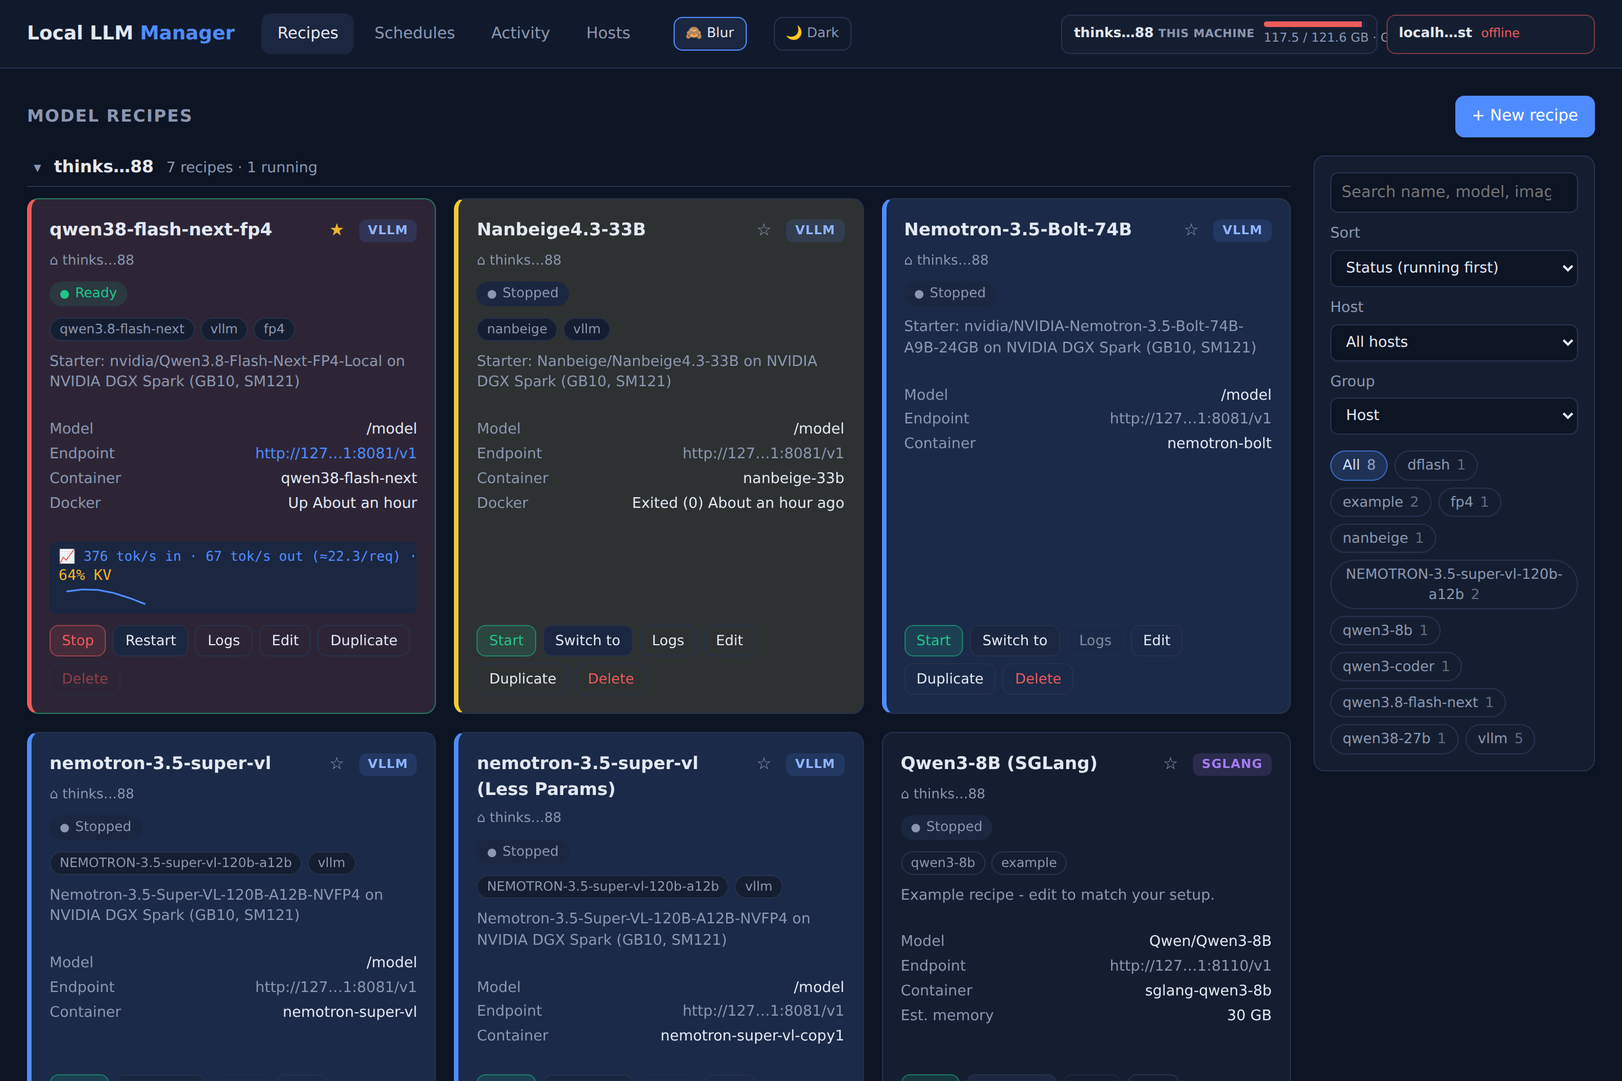
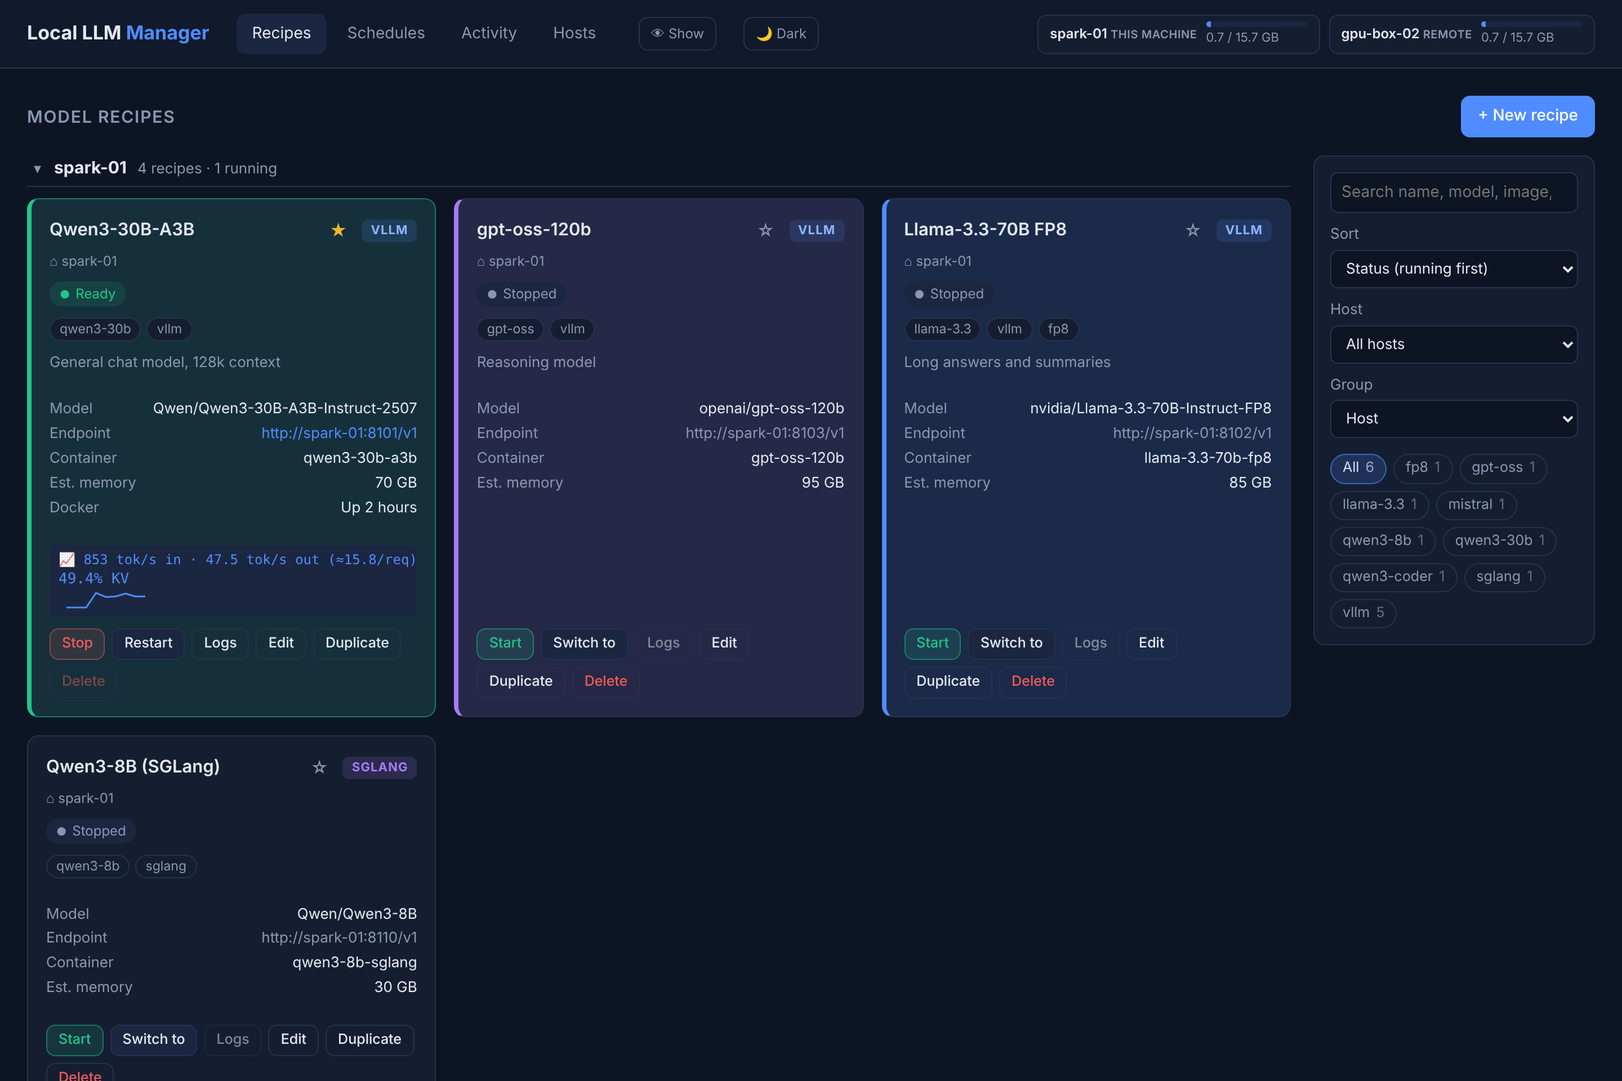
Security hardening, stronger Blur and demo screenshots
Security (found while reviewing the hub for the open-source release):
- CSRF: a malicious web page could make a logged-in browser start, stop,
  switch, duplicate or free memory via bodyless form POSTs, since browsers
  resend Basic-auth credentials. State-changing requests whose Origin (or
  Sec-Fetch-Site) shows another site are now rejected; clients without an
  Origin header (curl, scripts) are unaffected, X-Forwarded-Host is
  honoured for reverse proxies.
- DNS rebinding: without a password only IP addresses and localhost are
  accepted as Host.
- Security headers: X-Frame-Options/frame-ancestors (clickjacking),
  nosniff, Referrer-Policy.
- The hub refuses to start with the example password "change-me".
- Basic auth with a non-ASCII user/password raised a 500 instead of 401.
- XSS: host names and agent URLs were inserted into the page unescaped.

Privacy:
- Blur showed the first 6 and last 2 characters of host names; it now
  shows a stable alias (host-3f2a / ip-…) and also covers the host
  dropdowns, the port hint and host error messages.
- Code comments used a real LAN IP and host name as examples.
- Screenshots replaced with a demo setup (spark-01, gpu-box-02, public
  models) captured with a fake docker CLI and model server.

Claude-Session: https://claude.ai/code/session_01XYmGGxJLfYuaVT7aBqoYNH

diff --git a/local_llm_manager/static/app.js b/local_llm_manager/static/app.js
@@ -64,21 +64,21 @@ const PLATFORM = { darwin: "macOS", linux: "Linux" };
 
 function memText(m) { return `${m.used_gb} / ${m.total_gb} GB`; }
 
-/* Blur a host name / IP when the "Blur" toggle in the top bar is on; the hosts strip must not
- * expose the machine identity. Underlying values stay untouched; only display strings are masked. */
+/* Blur a host name / IP when the "Blur" toggle in the top bar is on, for screenshots and screen
+ * shares. Nothing of the real name is shown: each name becomes a stable alias such as "host-3f2a"
+ * (an IPv4 address "ip-…"), so different machines still look different. Only display strings are
+ * masked; the underlying values stay untouched. */
+function aliasHash(s) {
+  let h = 0x811c9dc5;  // FNV-1a
+  for (let i = 0; i < s.length; i++) { h ^= s.charCodeAt(i); h = Math.imul(h, 0x01000193); }
+  return (h >>> 0).toString(16).padStart(8, "0").slice(0, 4);
+}
 function maskAddr(name) {
   const s = String(name ?? "").trim();
   if (!s) return "–";
   if (!state.blur) return s;
-  // IPv4 192.0.2.114 -> 192…114
-  if (/^(?:\d{1,3}\.){3}\d{1,3}$/.test(s)) {
-    const parts = s.split(".");
-    return `${parts[0]}…${parts[parts.length - 1]}`;
-  }
-  // hostname thinkstationpgx-a688 -> thinkstationpg…988
-  if (s.length > 6) return `${s.slice(0, 6)}…${s.slice(-2)}`;
-  if (s.length > 1) return `${s[0]}…${s[s.length - 1]}`;
-  return "••••";
+  if (s === "localhost" || s === "127.0.0.1" || s === "::1") return s;
+  return `${/^(?:\d{1,3}\.){3}\d{1,3}$/.test(s) ? "ip" : "host"}-${aliasHash(s.toLowerCase())}`;
 }
 function maskUrl(url) {
   if (!url) return "–";
@@ -100,6 +100,13 @@ function maskEndpoint(urlStr) {
   } catch {
     return maskAddr(urlStr);
   }
+}
+// Mask a host's own name (from its URL) and any IPv4 address inside free text such as an error message.
+function blurHostText(text, url) {
+  let str = String(text ?? "");
+  if (!state.blur) return str;
+  try { const h = new URL(url).hostname; if (h) str = str.split(h).join(maskAddr(h)); } catch { /* no URL */ }
+  return blurText(str);
 }
 // Mask bare IPv4 addresses inside free text (e.g. activity log messages).
 function blurText(s) {
@@ -129,15 +136,15 @@ async function loadHosts() {
 function renderHostsStrip() {
   $("#hosts-strip").innerHTML = state.hosts.map((h) => {
     if (!h.online) {
-      return `<button class="host-chip offline" data-host="${h.id}" title="${esc(h.error || "offline")}">
-        <span class="host-name">${maskAddr(h.name)}</span><span class="host-mem">offline</span></button>`;
+      return `<button class="host-chip offline" data-host="${h.id}" title="${esc(blurHostText(h.error || "offline", h.url))}">
+        <span class="host-name">${esc(maskAddr(h.name))}</span><span class="host-mem">offline</span></button>`;
     }
     const m = h.system.memory;
     const pct = memPct(m);
     const gpu = h.system.gpus[0];
     const title = `${maskAddr(h.name)}: ${memText(m)} used, ${m.available_gb} GB free` + (gpu ? `\nGPU ${gpu.utilization ?? "?"}% · ${gpu.temperature ?? "?"}°C · ${gpu.power_w ?? "?"} W` : "");
     return `<button class="host-chip" data-host="${h.id}" title="${esc(title)}">
-        <span class="host-name">${maskAddr(h.name)} ${h.is_local ? '<span class="host-note">this machine</span>' : '<span class="host-note">remote</span>'}</span>
+        <span class="host-name">${esc(maskAddr(h.name))} ${h.is_local ? '<span class="host-note">this machine</span>' : '<span class="host-note">remote</span>'}</span>
         <span class="bar"><span class="${barClass(pct)}" style="width:${pct.toFixed(1)}%"></span></span>
         <span class="host-mem">${esc(memText(m))}${gpu ? ` · GPU ${gpu.utilization ?? "?"}%` : ""}</span>
       </button>`;
@@ -214,8 +221,8 @@ function renderHosts() {
     const m = h.system?.memory;
     const gpu = h.system?.gpus?.[0];
     return `<tr data-id="${h.id}">
-      <td><b>${maskAddr(h.name)}</b>${h.is_local ? ` <span class="chip small on">this machine</span>` : `<br><small class="host-url">${maskUrl(h.url)}</small>`}</td>
-      <td>${h.online ? `<span class="ok">● online</span>` : `<span class="bad">● offline</span><br><small>${esc(h.error || "")}</small>`}</td>
+      <td><b>${esc(maskAddr(h.name))}</b>${h.is_local ? ` <span class="chip small on">this machine</span>` : `<br><small class="host-url">${esc(maskUrl(h.url))}</small>`}</td>
+      <td>${h.online ? `<span class="ok">● online</span>` : `<span class="bad">● offline</span><br><small>${esc(blurHostText(h.error || "", h.url))}</small>`}</td>
       <td>${h.info ? `${esc(PLATFORM[h.info.platform] ?? h.info.platform)} · ${esc(h.info.machine)}<br><small>${esc(maskAddr(h.info.hostname))} · v${esc(h.info.version)}</small>` : "–"}</td>
       <td style="min-width:160px">${m ? `<div class="bar"><div class="${barClass(memPct(m))}" style="width:${memPct(m).toFixed(1)}%"></div></div>
         <small>${esc(memText(m))} · ${m.available_gb} GB free</small>` : "–"}</td>
@@ -719,7 +726,7 @@ function updatePortHint() {
   const port = Number(f.host_port.value);
   if (!port) { hint.textContent = ""; hint.className = "port-hint"; return; }
   const others = recipesOnPort(f.host_id.value, port, editingRecipe?.id);
-  const where = multiHost() ? ` on ${hostName(f.host_id.value)}` : "";
+  const where = multiHost() ? ` on ${maskAddr(hostName(f.host_id.value))}` : "";
   if (!others.length) {
     hint.textContent = `No other recipe uses port ${port}${where}.`;
     hint.className = "port-hint ok";
@@ -767,7 +774,7 @@ function openRecipeEditor(r) {
   editingRecipe = r;
   recipeForm.reset();
   $("#sel-host").innerHTML = state.hosts.map((h) =>
-    `<option value="${h.id}">${esc(h.name)}${h.info ? ` (${esc(PLATFORM[h.info.platform] ?? h.info.platform)})` : h.online ? "" : " (offline)"}</option>`).join("");
+    `<option value="${h.id}">${esc(maskAddr(h.name))}${h.info ? ` (${esc(PLATFORM[h.info.platform] ?? h.info.platform)})` : h.online ? "" : " (offline)"}</option>`).join("");
   $("#sel-host").closest("label").classList.toggle("hidden", !multiHost());
   $("#recipe-error").textContent = "";
   showRecipeNote([]);
@@ -1175,9 +1182,9 @@ function openScheduleEditor(s) {
   $("#schedule-error").textContent = "";
   $("#schedule-title").textContent = s ? "Edit schedule" : "New schedule";
   $("#sel-recipe").innerHTML = state.recipes.map((r) =>
-    `<option value="${r.id}">${esc(r.name)}${multiHost() ? ` – ${esc(hostName(r.host_id))}` : ""}</option>`).join("");
+    `<option value="${r.id}">${esc(r.name)}${multiHost() ? ` – ${esc(maskAddr(hostName(r.host_id)))}` : ""}</option>`).join("");
   $("#sel-sched-host").innerHTML = `<option value="">All hosts</option>` +
-    state.hosts.map((h) => `<option value="${h.id}">${esc(h.name)}</option>`).join("");
+    state.hosts.map((h) => `<option value="${h.id}">${esc(maskAddr(h.name))}</option>`).join("");
   $("#sel-sched-host").value = s?.host_id ?? "";
   $("#in-once").value = toLocalInput(s?.run_at);
   $$("#days input").forEach((c) => { c.checked = true; });

diff --git a/local_llm_manager/main.py b/local_llm_manager/main.py
@@ -1,6 +1,7 @@
 """FastAPI application: REST API + static web UI."""
 
 import base64
+import ipaddress
 import logging
 import os
 import re
@@ -11,6 +12,7 @@ from contextlib import asynccontextmanager
 from datetime import datetime, timedelta
 from pathlib import Path
 from typing import Optional
+from urllib.parse import urlsplit
 
 import httpx
 from fastapi import FastAPI, HTTPException, Request
@@ -230,6 +232,61 @@ def hub_timezone() -> str:
     return f"{now.tzname()} (UTC{offset[:3]}:{offset[3:]})"
 
 
+SECURITY_HEADERS = {
+    # The dashboard must not be framed by other sites (clickjacking with the browser's saved login).
+    "X-Frame-Options": "DENY",
+    "Content-Security-Policy": "frame-ancestors 'none'",
+    "X-Content-Type-Options": "nosniff",
+    "Referrer-Policy": "same-origin",
+}
+SAFE_METHODS = {"GET", "HEAD", "OPTIONS"}
+
+
+def _hostname(netloc: str) -> str:
+    """Host part of a Host header / URL netloc, without port or IPv6 brackets."""
+    netloc = netloc.strip().lower()
+    if netloc.startswith("["):
+        return netloc[1:netloc.find("]")] if "]" in netloc else netloc
+    return netloc.rsplit(":", 1)[0] if netloc.count(":") == 1 else netloc
+
+
+def _is_ip_or_localhost(host: str) -> bool:
+    if host == "localhost" or host.endswith(".localhost"):
+        return True
+    try:
+        ipaddress.ip_address(host)
+        return True
+    except ValueError:
+        return False
+
+
+def request_guard(request: Request) -> Optional[Response]:
+    """Reject requests a browser could be tricked into sending on the user's behalf.
+
+    - Cross-site requests that change something (CSRF): browsers send the saved Basic-auth login with
+      a form POST from any website, so state-changing requests must come from the dashboard's own origin.
+      Clients without an Origin header (curl, scripts, the hub's agent calls) are not affected.
+    - DNS rebinding when no password is set: an attacker's domain that resolves to this machine. Without
+      a password only IP addresses and localhost are accepted as Host.
+    """
+    host = request.headers.get("host", "")
+    if not config.AUTH_PASSWORD and host and not _is_ip_or_localhost(_hostname(host)):
+        return PlainTextResponse("Open the dashboard by IP address, or set DGXM_PASSWORD to use host names.",
+                                 status_code=403)
+    if request.method not in SAFE_METHODS:
+        origin = request.headers.get("origin")
+        if origin is not None:
+            parsed = urlsplit(origin)
+            # Behind a reverse proxy the browser's host may only be in X-Forwarded-Host.
+            forwarded = request.headers.get("x-forwarded-host", "").split(",")
+            allowed = {h.strip().lower() for h in (host, *forwarded)} - {""}
+            if parsed.netloc.lower() not in allowed:
+                return PlainTextResponse("Cross-site request blocked", status_code=403)
+        elif request.headers.get("sec-fetch-site") in ("cross-site", "same-site"):
+            return PlainTextResponse("Cross-site request blocked", status_code=403)
+    return None
+
+
 def create_app(db: Optional[Database] = None, docker: Optional[Docker] = None,
                run_scheduler: bool = True, procs: Optional[ProcessRunner] = None,
                remote_transport: Optional[httpx.AsyncBaseTransport] = None) -> FastAPI:
@@ -251,18 +308,23 @@ def create_app(db: Optional[Database] = None, docker: Optional[Docker] = None,
 
     @app.middleware("http")
     async def basic_auth(request: Request, call_next):
+        if blocked := request_guard(request):
+            return blocked
         if config.AUTH_PASSWORD:
             ok = False
             header = request.headers.get("authorization", "")
             if header.lower().startswith("basic "):
                 try:
                     user, _, pw = base64.b64decode(header[6:]).decode().partition(":")
-                    ok = secrets.compare_digest(user, config.AUTH_USER) and secrets.compare_digest(pw, config.AUTH_PASSWORD)
+                    ok = (secrets.compare_digest(user.encode(), config.AUTH_USER.encode())
+                          & secrets.compare_digest(pw.encode(), config.AUTH_PASSWORD.encode()))
                 except (ValueError, UnicodeDecodeError):
                     ok = False
             if not ok:
                 return Response(status_code=401, headers={"WWW-Authenticate": 'Basic realm="Local LLM Manager"'})
-        return await call_next(request)
+        response = await call_next(request)
+        response.headers.update(SECURITY_HEADERS)
+        return response
 
     @app.exception_handler(ActionError)
     async def action_error(_: Request, exc: ActionError):
@@ -592,8 +654,12 @@ def run() -> None:
             raise SystemExit("DGXM_MODE=agent needs DGXM_AGENT_TOKEN (a long random secret shared with the hub)")
         uvicorn.run(create_agent_app(), host=config.HOST, port=config.PORT, log_level="info")
         return
+    if config.AUTH_PASSWORD == "change-me":
+        raise SystemExit("DGXM_PASSWORD is still the example value 'change-me': set your own password in .env "
+                         "(or ~/.config/local-llm-manager.env) and start again")
     if not config.AUTH_PASSWORD:
-        logging.warning("DGXM_PASSWORD is not set - the dashboard is open to anyone who can reach port %s", config.PORT)
+        logging.warning("DGXM_PASSWORD is not set - the dashboard is open to anyone who can reach port %s "
+                        "(only by IP address or localhost)", config.PORT)
     uvicorn.run(create_app(), host=config.HOST, port=config.PORT, log_level="info")
 
 

diff --git a/tests/test_security.py b/tests/test_security.py
@@ -1,0 +1,72 @@
+import base64
+
+import pytest
+from conftest import recipe_body
+from fastapi.testclient import TestClient
+
+from local_llm_manager import config
+from local_llm_manager.main import create_app
+
+EVIL = {"Origin": "http://evil.example"}
+
+
+def test_cross_site_posts_are_blocked(client):
+    r = client.post("/api/recipes", json=recipe_body()).json()
+    for path in (f"/api/recipes/{r['id']}/start", "/api/system/stop-all", "/api/system/free-memory",
+                 f"/api/recipes/{r['id']}/duplicate"):
+        res = client.post(path, headers={**EVIL, "Content-Type": "application/x-www-form-urlencoded"})
+        assert res.status_code == 403, path
+    assert client.delete(f"/api/recipes/{r['id']}", headers={"Origin": "null"}).status_code == 403
+    assert client.post("/api/system/stop-all", headers={"Origin": "file://", "X-Forwarded-Host": ""}).status_code == 403
+    # Without Origin, a fetch metadata header still marks a cross-site request.
+    assert client.post("/api/system/stop-all", headers={"Sec-Fetch-Site": "cross-site"}).status_code == 403
+
+
+def test_same_origin_and_non_browser_clients_still_work(client):
+    assert client.post("/api/system/stop-all", headers={"Origin": "http://127.0.0.1"}).status_code == 200
+    assert client.post("/api/system/stop-all").status_code == 200  # curl / scripts send no Origin
+    assert client.post("/api/system/stop-all", headers={
+        "Origin": "https://llm.example.com", "X-Forwarded-Host": "llm.example.com"}).status_code == 200
+    assert client.get("/api/recipes", headers=EVIL).status_code == 200  # reads are not blocked by Origin
+
+
+def test_security_headers(client):
+    h = client.get("/api/meta").headers
+    assert h["x-frame-options"] == "DENY" and "frame-ancestors 'none'" in h["content-security-policy"]
+    assert h["x-content-type-options"] == "nosniff"
+
+
+def test_without_password_only_ip_or_localhost_hosts(client):
+    """DNS rebinding: an attacker's domain pointing at this machine must not reach an unprotected dashboard."""
+    assert client.get("/api/meta", headers={"Host": "attacker.example:8090"}).status_code == 403
+    for host in ("localhost:8090", "192.0.2.20:8090", "[::1]:8090", "127.0.0.1"):
+        assert client.get("/api/meta", headers={"Host": host}).status_code == 200, host
+
+
+@pytest.fixture
+def password(monkeypatch):
+    monkeypatch.setattr(config, "AUTH_PASSWORD", "s3cret")
+    monkeypatch.setattr(config, "AUTH_USER", "admin")
+
+
+def basic(user, pw):
+    return {"Authorization": "Basic " + base64.b64encode(f"{user}:{pw}".encode()).decode()}
+
+
+def test_basic_auth_with_password(password, fake_docker, tmp_path):
+    from local_llm_manager.db import Database
+    app = create_app(db=Database(str(tmp_path / "t.db")), docker=fake_docker, run_scheduler=False)
+    with TestClient(app, base_url="http://spark.lan:8090") as c:
+        assert c.get("/api/meta").status_code == 401
+        assert c.get("/api/meta", headers=basic("admin", "wrong")).status_code == 401
+        assert c.get("/api/meta", headers=basic("ädmin", "pässword")).status_code == 401  # no crash on non-ASCII
+        # With a password, host names are fine (the login protects against rebinding).
+        assert c.get("/api/meta", headers=basic("admin", "s3cret")).status_code == 200
+
+
+def test_example_password_is_refused(monkeypatch):
+    from local_llm_manager import main
+    monkeypatch.setattr(config, "MODE", "hub")
+    monkeypatch.setattr(config, "AUTH_PASSWORD", "change-me")
+    with pytest.raises(SystemExit, match="change-me"):
+        main.run()

diff --git a/tests/test_hosts.py b/tests/test_hosts.py
@@ -29,7 +29,7 @@ def setup(monkeypatch, tmp_path):
     agent = create_agent_app(LocalExecutor(mac_docker, ProcessRunner(tmp_path / "agent-procs")))
     hub = create_app(Database(":memory:"), hub_docker, run_scheduler=False,
                      procs=ProcessRunner(tmp_path / "hub-procs"), remote_transport=httpx.ASGITransport(app=agent))
-    with TestClient(hub) as client:
+    with TestClient(hub, base_url="http://127.0.0.1") as client:
         mac = client.post("/api/hosts", json={"name": "mac", "url": "http://mac.local:8090", "token": TOKEN})
         assert mac.status_code == 201, mac.text
         yield client, agent, hub_docker, mac_docker, mac.json()

diff --git a/tests/conftest.py b/tests/conftest.py
@@ -78,7 +78,7 @@ def client(fake_docker, monkeypatch, tmp_path):
     monkeypatch.setattr(executor_mod, "port_in_use", lambda port: port in fake_docker.ports_in_use)
     app = create_app(Database(":memory:"), fake_docker, run_scheduler=False,
                      procs=ProcessRunner(tmp_path / "processes"))
-    with TestClient(app) as c:
+    with TestClient(app, base_url="http://127.0.0.1") as c:
         yield c
 
 

diff --git a/README.md b/README.md
@@ -32,7 +32,8 @@ download them.
 |---|---|
 | ![Hosts](docs/screenshots/hosts-dark.png) | ![Recipe editor](docs/screenshots/recipe-editor-dark.png) |
 
-Host names and IPs are shown blurred via the top-bar **🙈 Blur** toggle - handy for screenshots and screen shares.
+The screenshots show a demo setup. The top-bar **🙈 Blur** toggle replaces host names and IPs with aliases such as
+`host-3f2a` (as in the Hosts screenshot) - handy for screenshots and screen shares.
 
 ## Quick start
 
@@ -144,13 +145,18 @@ on those machines - effectively root. So: always set `DGXM_PASSWORD`, use a long
 keep everything on a trusted network or VPN (or behind an HTTPS reverse proxy). Report vulnerabilities
 as described in [SECURITY.md](SECURITY.md).
 
+Built-in protections: the hub refuses to start with the example password `change-me`; requests that change
+something are only accepted from the dashboard itself (other websites cannot use your browser's saved
+login), and the dashboard cannot be embedded in other sites. Without a password it only answers when
+opened by IP address or `localhost`. Behind a reverse proxy, pass the original host (`X-Forwarded-Host`).
+
 ## Configuration
 
 Set in `.env` (or `~/.config/local-llm-manager.env` with `install.sh`):
 
 | Variable | Default | |
 |---|---|---|
-| `DGXM_PASSWORD` / `DGXM_USER` | *(empty = no login!)* / `admin` | Dashboard login |
+| `DGXM_PASSWORD` / `DGXM_USER` | *(empty = no login, IP access only)* / `admin` | Dashboard login |
 | `DGXM_PORT` / `DGXM_HOST` | `8090` / `0.0.0.0` | Listen address |
 | `DGXM_MODE` | `hub` | `agent`: no dashboard, controlled by a hub |
 | `DGXM_AGENT_TOKEN` | | Token the hub must send (required in agent mode) |

diff --git a/SECURITY.md b/SECURITY.md
@@ -28,6 +28,21 @@ Local LLM Manager is built to **run arbitrary containers and processes** on the 
 - The agent token grants the same level of control over an agent machine.
 - Hub ↔ agent traffic is plain HTTP.
 - *Import script* runs user-supplied shell scripts in a restricted, but **not sandboxed**, environment.
+- Agents are trusted by the hub: a compromised agent can send misleading status data to the dashboard.
+
+What the hub does to protect the dashboard:
+
+- HTTP Basic auth with constant-time comparison; the hub refuses to start with the example password
+  `change-me`.
+- **Cross-site requests:** requests that change something (`POST`/`PUT`/`DELETE`) are rejected when the
+  browser's `Origin` (or `Sec-Fetch-Site`) shows they come from another site, so a malicious web page
+  cannot use your browser's saved login to start or stop models. API clients without `Origin` (curl,
+  scripts) are unaffected.
+- **DNS rebinding:** without a password, only requests addressed to an IP address or `localhost` are
+  answered.
+- **Framing:** `X-Frame-Options: DENY` and `frame-ancestors 'none'` against clickjacking, plus
+  `X-Content-Type-Options: nosniff` and `Referrer-Policy: same-origin`.
+- Host names, URLs and agent error messages are HTML-escaped in the UI.
 
 Therefore: always set `DGXM_PASSWORD`, use a long random `DGXM_AGENT_TOKEN`, and only expose the
 dashboard and agents on a trusted network, a VPN (e.g. Tailscale/WireGuard) or behind an HTTPS reverse

diff --git a/CHANGELOG.md b/CHANGELOG.md
@@ -16,7 +16,19 @@ to [Semantic Versioning](https://semver.org/spec/v2.0.0.html).
   mounts the host's `/etc/localtime` so schedules no longer run in UTC inside the container.
 - `pyproject.toml`, so the manager can be installed with `pip install .` (command `local-llm-manager`).
 
+### Security
+- Cross-site request forgery: another website could make a logged-in browser start, stop, switch or
+  free memory (bodyless `POST`s). State-changing requests from a foreign `Origin` are now rejected.
+- Without a password, only IP addresses and `localhost` are accepted as `Host` (DNS rebinding).
+- Security headers against clickjacking (`X-Frame-Options`, `frame-ancestors`) and MIME sniffing.
+- The hub refuses to start with the example password `change-me`.
+- A non-ASCII username or password in Basic auth caused a 500 error instead of 401.
+- Host names and agent URLs were inserted into the page as HTML without escaping (XSS).
+- The Blur toggle showed the first and last characters of host names; it now shows aliases like
+  `host-3f2a`, and also covers the host dropdowns, port hints and host error messages.
+
 ### Fixed
+- Screenshots replaced with a demo setup; example IP/host name in code comments replaced.
 - Script import looks for bash 4 or newer (also in `/opt/homebrew/bin`, `/usr/local/bin`) and says
   "run `brew install bash`" if there is none, instead of failing with "command not found" on macOS.
 
